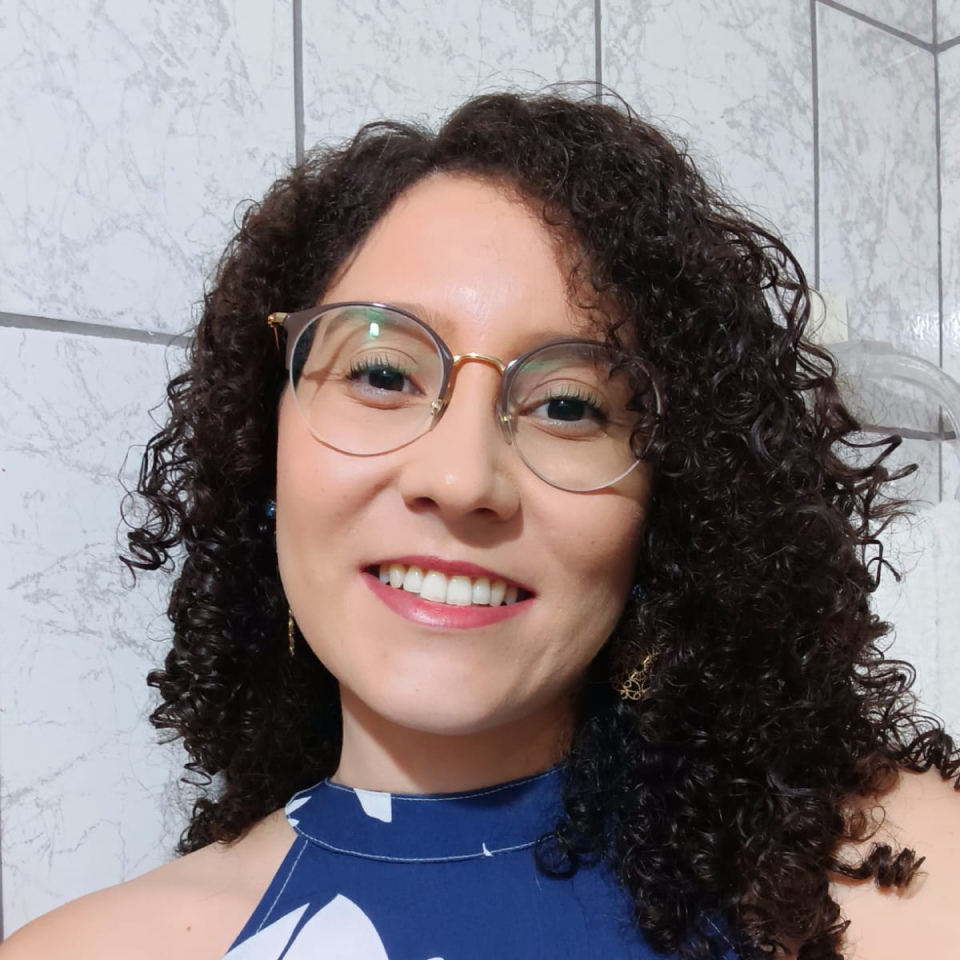
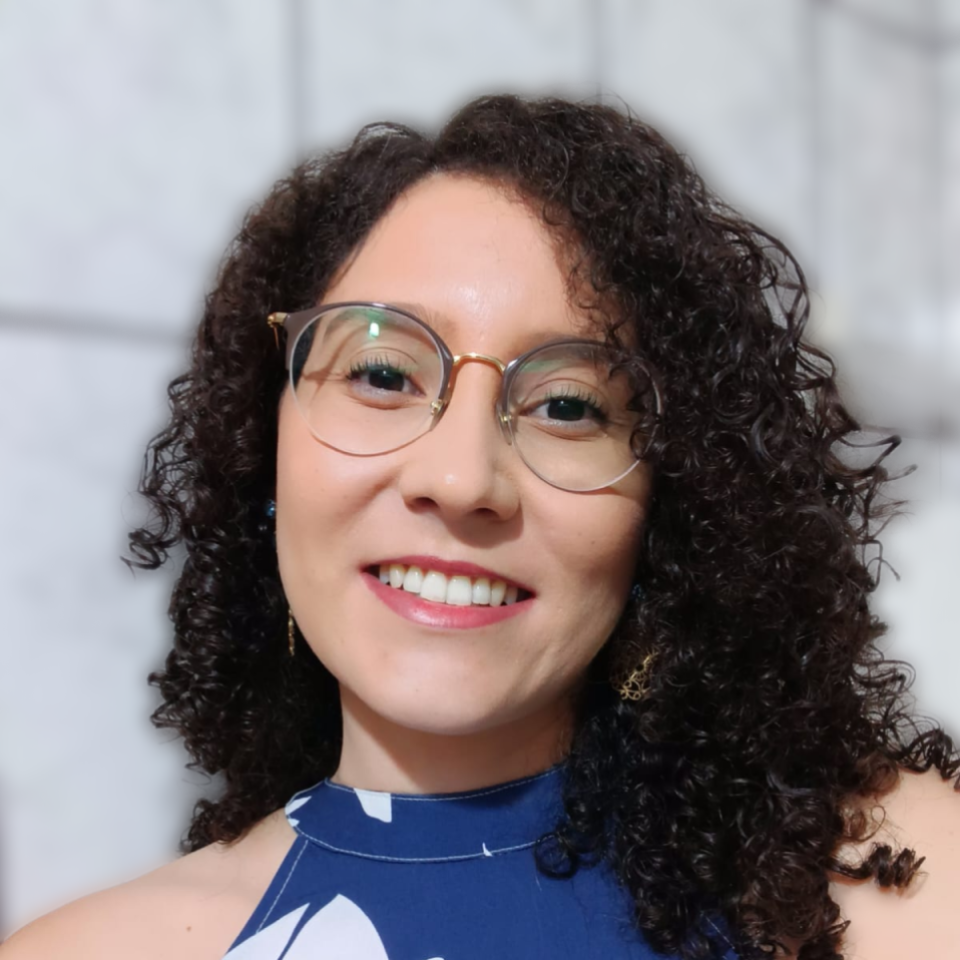
feat: Add André + blur images + add whatsapp and mail

diff --git a/index.html b/index.html
@@ -63,6 +63,9 @@
           <li><a class="nav-link scrollto" href="#features">Analysis</a></li>
           <li><a class="nav-link scrollto" href="#team">Team</a></li>
           <li><a href="https://www.linkedin.com/company/lexanomics/" class="linkedin"><i class="bi bi-linkedin"></i></a>
+          <li><a href="https://web.whatsapp.com/send?phone=5521993096161" class="whatsapp"><i
+                class="bi bi-whatsapp"></i></a>
+          <li><a href="mailto:lexanomics@gmail.com" class="envelope"><i class="bi bi-envelope"></i></a>
           </li>
         </ul>
         <i class="bi bi-list mobile-nav-toggle"></i>
@@ -266,7 +269,7 @@
           <div class="col-lg-4 col-md-6 d-flex align-items-stretch">
             <div class="member" data-aos="fade-up" data-aos-delay="100">
               <div class="member-img">
-                <img src="assets/img/team/diego_image.jpeg" class="img-fluid" alt="">
+                <img src="assets/img/team/diego_image.png" class="img-fluid" alt="">
                 <div class="social">
                   <p>Diego's passion for bioinformatics stems from its limitless potential to advance biological
                     research. With a strong foundation in bioinformatics and a wealth of experience in constructing
@@ -284,10 +287,8 @@
             </div>
           </div>
 
-          <div class="col-lg-4 col-md-6 d-flex align-items-stretch"></div>
-
           <div class="col-lg-4 col-md-6 d-flex align-items-stretch">
-            <div class="member" data-aos="fade-up" data-aos-delay="200">
+            <div class="member" data-aos="fade-up" data-aos-delay="100">
               <div class="member-img">
                 <img src="assets/img/team/iara_image.png" class="img-fluid" alt="">
                 <div class="social">
@@ -301,6 +302,25 @@
                 <span>Comparative Genomics, Neuroscience</span>
                 <a href="https://www.linkedin.com/in/iaradsouza/"><i class="bi bi-linkedin"></i></a>
                 <a href="https://github.com/iaradsouza1/"><i class="bi bi-github"></i></a>
+              </div>
+            </div>
+          </div>
+
+          <div class="col-lg-4 col-md-6 d-flex align-items-stretch">
+            <div class="member" data-aos="fade-up" data-aos-delay="200">
+              <div class="member-img">
+                <img src="assets/img/team/andre_image.png" class="img-fluid" alt="">
+                <div class="social">
+                  <p></p>
+                </div>
+              </div>
+              <div class="member-info">
+                <h4>André Fonseca, Ph.D.</h4>
+                <span>Scientific Programmer</span>
+                <span><b>Antigen Discovery, Transcriptomics, DNAseq</b></span>
+                <span>Cancer Biology, Immunogenetics</span>
+                <a href="https://www.linkedin.com/in/oandrefonseca/"><i class="bi bi-linkedin"></i></a>
+                <a href="https://github.com/oandrefonseca/"><i class="bi bi-github"></i></a>
               </div>
             </div>
           </div>

diff --git a/assets/css/style.css b/assets/css/style.css
@@ -143,17 +143,27 @@ h6 {
   position: relative;
 }
 
+.navbar a .bi,
+.navbar a .bi:focus,
+.navbar a .bi:hover,
+.navbar a .bi:focus:hover {
+  font-size: 20px;
+  padding-left: 5px;
+}
+
 .navbar a,
 .navbar a:focus {
   display: flex;
   align-items: center;
-  justify-content: space-between;
-  padding: 10px 0 10px 30px;
   font-size: 16px;
   font-weight: 400;
   color: #555555;
   white-space: nowrap;
   transition: 0.3s;
+}
+
+.nav-link {
+  padding: 10px 30px 10px 0px;
 }
 
 .navbar a i,
@@ -168,13 +178,6 @@ h6 {
 .navbar .active:focus,
 .navbar li:hover>a {
   color: #225378;
-}
-
-.navbar a .bi-linkedin,
-.navbar a .bi-linkedin:focus,
-.navbar a .bi-linkedin:hover,
-.navbar a .bi-linkedin:focus:hover {
-  font-size: 20px;
 }
 
 
